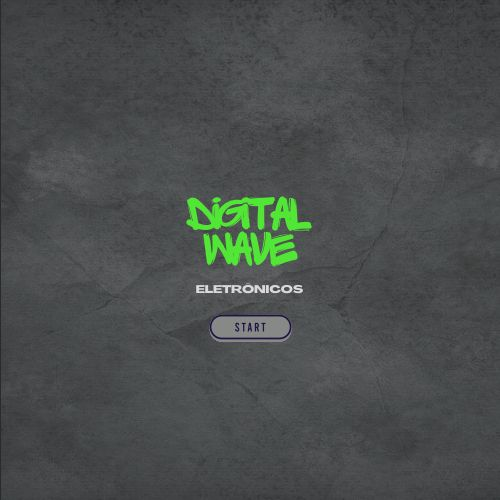
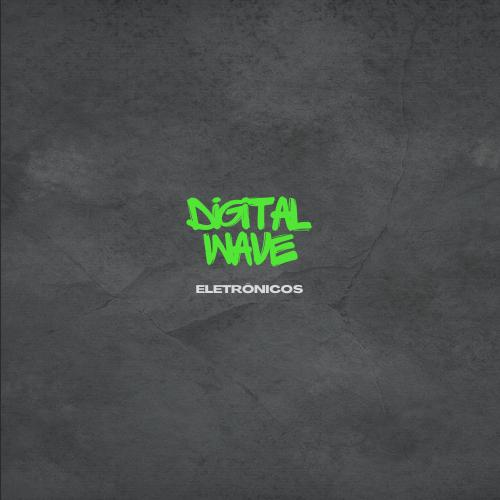
appBar

Changed region(s): [[0.42, 0.63, 0.6, 0.69], [0.51, 0.48, 0.54, 0.51], [0.45, 0.42, 0.48, 0.45]]

diff --git a/hackadev/lib/main.dart b/hackadev/lib/main.dart
@@ -17,7 +17,28 @@ class MyApp extends StatelessWidget{
       theme: ThemeData.dark(),
       color: const Color(0xff2B2B2B),
       home: Scaffold(
-        appBar:AppBar(),
+        appBar: AppBar(
+          elevation: 5,
+          toolbarHeight: 150,
+          actions: [
+            IconButton(
+              onPressed: () {},
+              icon: const Icon(Icons.search),
+            ),
+            IconButton(
+              onPressed: () {},
+              icon: const Icon(Icons.menu),
+            ),
+          ],
+          flexibleSpace: Container(
+            decoration: BoxDecoration(
+              image: DecorationImage(
+                image: AssetImage('assets/imagens/img.png'),
+                fit: BoxFit.cover,
+              ),
+            ),
+          ),
+        ),
         body:  const Column(
           children: [
             CategoriasWidget(), //Usando o widget de categorias
